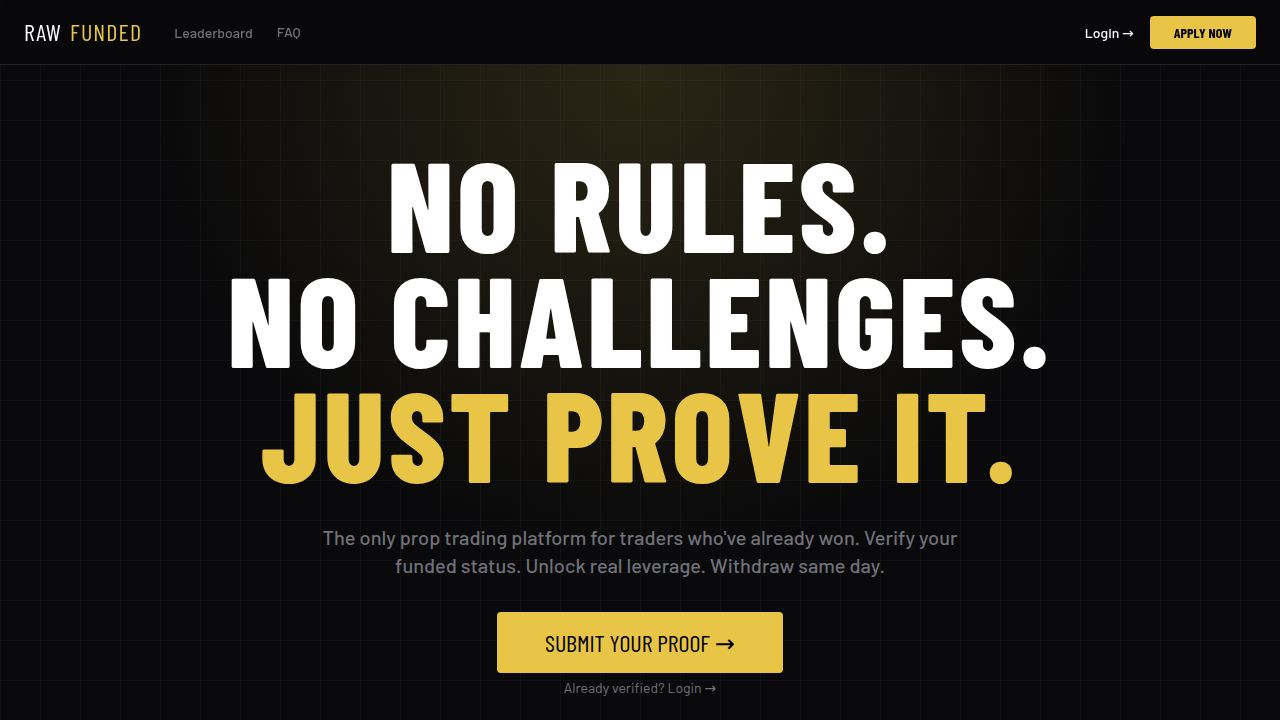
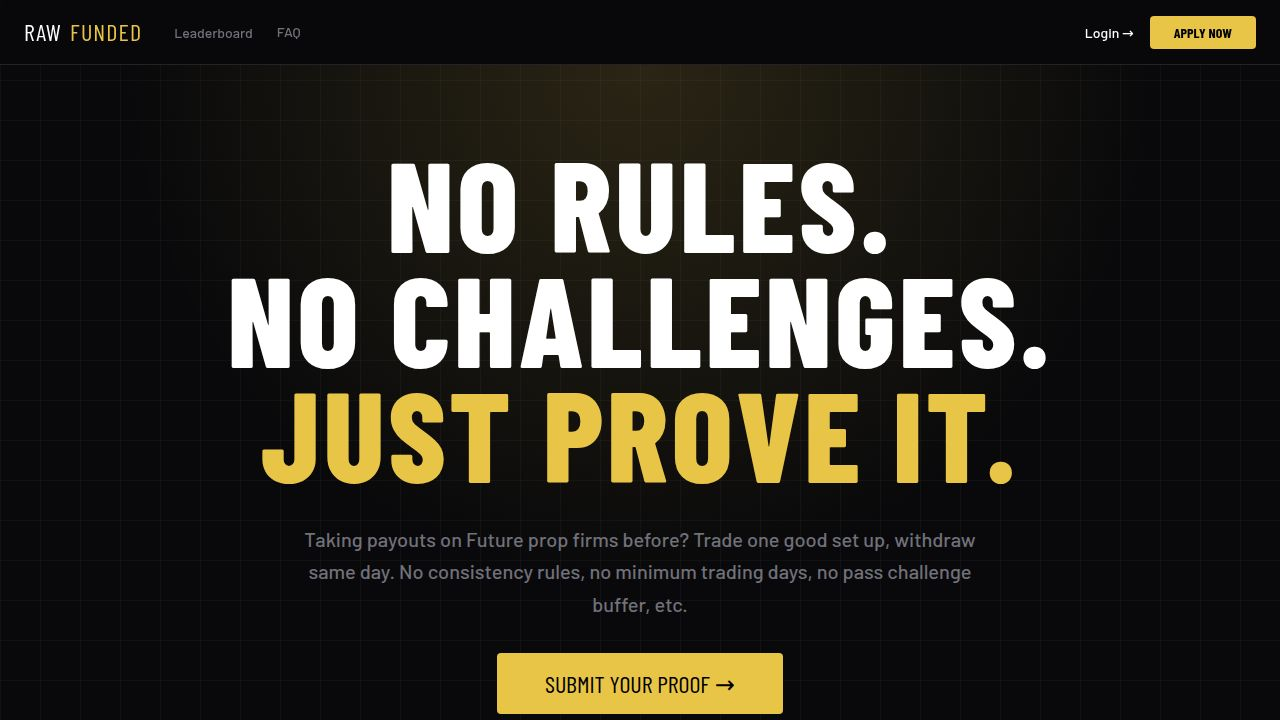
Update trading platform to use futures contracts and new verification tiers
Refactor Terminal component, constants, and apply page to use futures contracts (e.g., MNQ, MES) instead of lots, and update tier definitions and verification logic to align with new user requirements for certified traders and payout verification.

Replit-Commit-Author: Agent
Replit-Commit-Session-Id: cf411154-8153-407b-abf6-9c515cfc12b8
Replit-Commit-Checkpoint-Type: full_checkpoint
Replit-Commit-Event-Id: f8240c99-c681-4b00-b0c1-e1877290902e
Replit-Commit-Screenshot-Url: https://storage.googleapis.com/screenshot-production-us-central1/fb98165c-38b1-4d3a-b7e7-9d60fbf29060/cf411154-8153-407b-abf6-9c515cfc12b8/eQidsIg
Replit-Helium-Checkpoint-Created: true

Changed region(s): [[0.25, 0.7333, 0.7812, 1.0]]

diff --git a/client/src/pages/apply.tsx b/client/src/pages/apply.tsx
@@ -10,7 +10,7 @@ export default function Apply() {
   const [payouts, setPayouts] = useState<number>(0);
   const [isSubmitting, setIsSubmitting] = useState(false);
 
-  // Derived tier preview
+  // Derived tier preview: 0 = Verified (Certified), 1+ = Elite (Payouts)
   const previewTier = payouts === 0 ? TIERS.verified : payouts === 1 ? TIERS.elite : TIERS.titan;
 
   const handleSubmit = (e: React.FormEvent) => {
@@ -82,12 +82,11 @@ export default function Apply() {
                       <label className="block text-sm text-muted-foreground uppercase mb-2">Select Prop Firm</label>
                       <select required className="w-full bg-s2 border border-b1 p-3 text-white focus:border-gold outline-none">
                         <option value="">Select Firm...</option>
-                        <option>FTMO</option>
                         <option>TopStep</option>
-                        <option>MyForexFunds</option>
-                        <option>Funded Next</option>
-                        <option>The Funded Trader</option>
                         <option>Apex</option>
+                        <option>Earn2Trade</option>
+                        <option>TradeDay</option>
+                        <option>MyFundedFutures</option>
                         <option>Other</option>
                       </select>
                     </div>
@@ -105,37 +104,43 @@ export default function Apply() {
                           </div>
                         ))}
                       </div>
+                      <p className="text-xs text-muted-foreground mt-2">
+                        {payouts === 0 ? "You are applying for the Verified Tier (Certified)." : "You are applying for the Elite/Titan Tier (Payouts)."}
+                      </p>
                     </div>
 
                     <div>
                       <label className="block text-sm text-muted-foreground uppercase mb-2">Proof Method</label>
                       <div className="grid grid-cols-2 gap-2 mb-4">
+                        <div className="border border-b1 bg-s2 p-3 flex flex-col items-center justify-center gap-2 cursor-pointer hover:border-b2">
+                          <FileText className="w-6 h-6 text-muted-foreground" />
+                          <span className="text-[10px] uppercase font-bold text-muted-foreground text-center leading-tight">Certificate PDF</span>
+                        </div>
                         <div className="border border-gold bg-gold/5 p-3 flex flex-col items-center justify-center gap-2 cursor-pointer">
-                          <UploadCloud className="w-6 h-6 text-gold" />
-                          <span className="text-xs uppercase font-bold text-gold">Screenshot</span>
+                          <Mail className="w-6 h-6 text-gold" />
+                          <span className="text-[10px] uppercase font-bold text-gold text-center leading-tight">Wise/Stripe Email Forward</span>
+                        </div>
+                        <div className="border border-b1 bg-s2 p-3 flex flex-col items-center justify-center gap-2 cursor-pointer hover:border-b2">
+                          <UploadCloud className="w-6 h-6 text-muted-foreground" />
+                          <span className="text-[10px] uppercase font-bold text-muted-foreground text-center leading-tight">Screenshot</span>
                         </div>
                         <div className="border border-b1 bg-s2 p-3 flex flex-col items-center justify-center gap-2 cursor-pointer hover:border-b2">
                           <LinkIcon className="w-6 h-6 text-muted-foreground" />
-                          <span className="text-xs uppercase font-bold text-muted-foreground">Profile URL</span>
-                        </div>
-                        <div className="border border-b1 bg-s2 p-3 flex flex-col items-center justify-center gap-2 cursor-pointer hover:border-b2">
-                          <Mail className="w-6 h-6 text-muted-foreground" />
-                          <span className="text-xs uppercase font-bold text-muted-foreground">Email Forward</span>
-                        </div>
-                        <div className="border border-b1 bg-s2 p-3 flex flex-col items-center justify-center gap-2 cursor-pointer hover:border-b2">
-                          <FileText className="w-6 h-6 text-muted-foreground" />
-                          <span className="text-xs uppercase font-bold text-muted-foreground">Certificate</span>
+                          <span className="text-[10px] uppercase font-bold text-muted-foreground text-center leading-tight">Profile URL</span>
                         </div>
                       </div>
                       
-                      <div className="border-2 border-dashed border-b1 bg-s2 p-8 text-center cursor-pointer hover:border-gold/50 transition-colors">
-                        <div className="w-12 h-12 bg-b1 rounded-full flex items-center justify-center mx-auto mb-4">
-                          <UploadCloud className="w-6 h-6 text-muted-foreground" />
+                      <div className="bg-s2/50 border border-gold/50 p-6 text-center rounded-sm">
+                        <p className="text-sm text-white mb-3">Forward your payout confirmation email to:</p>
+                        <div className="inline-block bg-background px-4 py-2 border border-b1 rounded text-gold font-mono mb-3 select-all">
+                          compliance@rawfunded.com
                         </div>
-                        <p className="text-sm text-muted-foreground">Drag and drop your screenshot here, or click to browse.</p>
+                        <p className="text-xs text-muted-foreground">
+                          Include your Raw Funded username in the subject line.
+                        </p>
                       </div>
                     </div>
-
+                    
                     <div>
                       <label className="block text-sm text-muted-foreground uppercase mb-2">Additional Notes (Optional)</label>
                       <textarea className="w-full bg-s2 border border-b1 p-3 text-white focus:border-gold outline-none h-24 resize-none" placeholder="Anything else we should know?"></textarea>
@@ -163,8 +168,8 @@ export default function Apply() {
                       <div className="data-number text-xl">1:{previewTier.leverage}</div>
                     </div>
                     <div>
-                      <div className="text-xs text-muted-foreground uppercase">Max Lot</div>
-                      <div className="data-number text-xl">{previewTier.maxLot}</div>
+                      <div className="text-xs text-muted-foreground uppercase">Max Position Size</div>
+                      <div className="data-number text-xl">{previewTier.maxContractsText}</div>
                     </div>
                   </div>
                 </div>
@@ -176,15 +181,15 @@ export default function Apply() {
                   <ul className="space-y-3">
                     <li className="flex gap-3 items-start">
                       <Check className="w-5 h-5 text-green shrink-0" />
-                      <span className="text-sm text-muted-foreground">Dashboard screenshots showing your name and funded status clearly.</span>
+                      <span className="text-sm text-muted-foreground"><strong className="text-white">Elite (Payouts):</strong> Forwarded Wise or Stripe verification emails of past prop firm payouts.</span>
                     </li>
                     <li className="flex gap-3 items-start">
                       <Check className="w-5 h-5 text-green shrink-0" />
-                      <span className="text-sm text-muted-foreground">Payout certificates or emails from recognized prop firms.</span>
+                      <span className="text-sm text-muted-foreground"><strong className="text-white">Verified (Certified):</strong> Certificate proofs or verification PDFs showing you passed an evaluation.</span>
                     </li>
                     <li className="flex gap-3 items-start">
                       <Check className="w-5 h-5 text-green shrink-0" />
-                      <span className="text-sm text-muted-foreground">Public profile URLs (e.g., TopStep public profile).</span>
+                      <span className="text-sm text-muted-foreground">Public profile URLs (e.g., TopStep public profile) demonstrating funded status.</span>
                     </li>
                   </ul>
                 </div>

diff --git a/client/src/pages/home.tsx b/client/src/pages/home.tsx
@@ -17,8 +17,8 @@ export default function Home() {
             <span className="text-gold">JUST PROVE IT.</span>
           </h1>
           
-          <p className="text-lg md:text-xl text-muted-foreground max-w-2xl mx-auto font-medium">
-            The only prop trading platform for traders who've already won. Verify your funded status. Unlock real leverage. Withdraw same day.
+          <p className="text-lg md:text-xl text-muted-foreground max-w-2xl mx-auto font-medium leading-relaxed">
+            Taking payouts on Future prop firms before? Trade one good set up, withdraw same day. No consistency rules, no minimum trading days, no pass challenge buffer, etc.
           </p>
 
           <div className="flex flex-col items-center gap-4 pt-4">
@@ -71,19 +71,19 @@ export default function Home() {
           <div className="bg-s1 border border-b1 p-8 relative z-10 flex flex-col items-center text-center">
             <div className="w-16 h-16 bg-s2 border border-b2 flex items-center justify-center data-number text-2xl text-gold font-bold mb-6 rounded-full">1</div>
             <h3 className="text-2xl text-white mb-3">PROVE IT</h3>
-            <p className="text-muted-foreground">Submit your funded account proof from any prop firm. Takes 2 minutes.</p>
+            <p className="text-muted-foreground">Upload a Certificate PDF or forward your Wise/Stripe payout verification email.</p>
           </div>
 
           <div className="bg-s1 border border-b1 p-8 relative z-10 flex flex-col items-center text-center">
             <div className="w-16 h-16 bg-s2 border border-b2 flex items-center justify-center data-number text-2xl text-gold font-bold mb-6 rounded-full">2</div>
             <h3 className="text-2xl text-white mb-3">GET VERIFIED</h3>
-            <p className="text-muted-foreground">Our team reviews within 24 hours. Your tier unlocks automatically.</p>
+            <p className="text-muted-foreground">Our compliance team reviews within 24 hours. Your tier unlocks automatically.</p>
           </div>
 
           <div className="bg-s1 border border-b1 p-8 relative z-10 flex flex-col items-center text-center">
             <div className="w-16 h-16 bg-s2 border border-b2 flex items-center justify-center data-number text-2xl text-gold font-bold mb-6 rounded-full">3</div>
             <h3 className="text-2xl text-white mb-3">TRADE & WITHDRAW</h3>
-            <p className="text-muted-foreground">No rules, no limits, no waiting. Withdraw your profits same day.</p>
+            <p className="text-muted-foreground">Trade your edge and withdraw the same day. No restrictive consistency rules.</p>
           </div>
         </div>
       </section>
@@ -105,10 +105,10 @@ export default function Home() {
             { rule: "Daily Loss Limit", other: true, us: false },
             { rule: "Consistency Rule", other: true, us: false },
             { rule: "Min Trading Days", other: true, us: false },
+            { rule: "Pass Challenge Buffer", other: true, us: false },
             { rule: "Challenge Fee", other: "$100–$1,000", us: "$0" },
             { rule: "Withdrawal Wait", other: "14–30 days", us: "Same Day" },
             { rule: "News Trading Ban", other: true, us: false },
-            { rule: "Weekend Holding Ban", other: true, us: false },
           ].map((item, i) => (
             <div key={i} className="grid grid-cols-3 p-4 border-b border-b1 last:border-0 hover:bg-s2/50 transition-colors items-center">
               <div className="font-medium">{item.rule}</div>
@@ -135,7 +135,11 @@ export default function Home() {
             {Object.entries(TIERS).filter(([k]) => k !== 'banned').map(([key, tier]) => (
               <div key={key} className="bg-background border border-b1 p-6 relative overflow-hidden group hover:border-b2 transition-colors">
                 <div className="absolute top-0 left-0 w-full h-1" style={{ backgroundColor: tier.color }}></div>
-                <h3 className="text-2xl mb-2" style={{ color: tier.color }}>{tier.label}</h3>
+                <h3 className="text-2xl mb-1" style={{ color: tier.color }}>{tier.label}</h3>
+                
+                {key === 'verified' && <div className="text-xs text-muted-foreground mb-4">For Certified Traders</div>}
+                {key === 'elite' && <div className="text-xs text-muted-foreground mb-4">For Traders With Payouts</div>}
+                {(key === 'unverified' || key === 'titan') && <div className="text-xs text-transparent mb-4 select-none">Spacer</div>}
                 
                 <div className="my-6 space-y-4">
                   <div>
@@ -143,14 +147,15 @@ export default function Home() {
                     <div className="data-number text-2xl">1:{tier.leverage}</div>
                   </div>
                   <div>
-                    <div className="text-xs text-muted-foreground uppercase mb-1">Max Lot</div>
-                    <div className="data-number text-xl">{tier.maxLot}</div>
+                    <div className="text-xs text-muted-foreground uppercase mb-1">Max Position Size</div>
+                    <div className="data-number text-xl">{tier.maxContractsText}</div>
                   </div>
                   <div>
                     <div className="text-xs text-muted-foreground uppercase mb-1">Instruments</div>
-                    <div className="text-sm font-medium text-muted-foreground">
-                      {tier.instruments.length > 4 ? `${tier.instruments.length} Pairs (Majors + Metals)` : tier.instruments.join(', ')}
+                    <div className="text-sm font-medium text-muted-foreground leading-tight">
+                      {tier.instruments.length > 5 ? `Futures (Micros & Minis)` : `Micros Only`}
                     </div>
+                    <div className="text-[10px] text-muted-foreground mt-1">Nasdaq, S&P 500, Gold, Silver, Oil</div>
                   </div>
                 </div>
               </div>

diff --git a/client/src/components/dashboard/Terminal.tsx b/client/src/components/dashboard/Terminal.tsx
@@ -8,8 +8,8 @@ interface TerminalProps {
 
 export default function Terminal({ tier, userTierName }: TerminalProps) {
   const chartContainerRef = useRef<HTMLDivElement>(null);
-  const [instrument, setInstrument] = useState(tier.instruments[0] || 'XAUUSD_m');
-  const [lotSize, setLotSize] = useState<number>(0.01);
+  const [instrument, setInstrument] = useState(tier.instruments[0] || 'MNQ');
+  const [contracts, setContracts] = useState<number>(1);
   const [positions, setPositions] = useState<any[]>([]);
 
   useEffect(() => {
@@ -46,13 +46,13 @@ export default function Terminal({ tier, userTierName }: TerminalProps) {
       wickDownColor: '#EF4444',
     });
 
-    // Generate some realistic looking dummy data for XAUUSD around 2640
+    // Generate some realistic looking dummy data for MNQ around 21000
     const data = [];
-    let currentPrice = 2640;
+    let currentPrice = 21000;
     const now = Math.floor(Date.now() / 1000);
     
     for (let i = 200; i > 0; i--) {
-      const volatility = 2;
+      const volatility = 5;
       const open = currentPrice + (Math.random() - 0.5) * volatility;
       const close = open + (Math.random() - 0.5) * volatility;
       const high = Math.max(open, close) + Math.random() * volatility;
@@ -79,8 +79,8 @@ export default function Terminal({ tier, userTierName }: TerminalProps) {
   }, [instrument]);
 
   const handleTrade = (side: 'BUY' | 'SELL') => {
-    if (lotSize > tier.maxLot) {
-      alert(`Lot size exceeds your tier limit (${tier.maxLot}). Verify to unlock larger positions.`);
+    if (contracts > tier.maxContractsVal) {
+      alert(`Contract size exceeds your tier limit (${tier.maxContractsText}). Verify to unlock larger positions.`);
       return;
     }
 
@@ -88,9 +88,9 @@ export default function Terminal({ tier, userTierName }: TerminalProps) {
       id: Math.random().toString(36).substring(7),
       instrument,
       side,
-      size: lotSize,
-      entry: side === 'BUY' ? 2641.80 : 2641.70, // mock current price
-      current: 2641.75,
+      size: contracts,
+      entry: side === 'BUY' ? 21005.50 : 21004.50, // mock current price for MNQ
+      current: 21005.00,
       pnl: 0.00
     };
     
@@ -139,24 +139,24 @@ export default function Terminal({ tier, userTierName }: TerminalProps) {
             <div className="flex flex-col items-center gap-2">
               <div className="flex items-center bg-s2 border border-b2 rounded overflow-hidden">
                 <button 
-                  onClick={() => setLotSize(Math.max(0.01, Number((lotSize - 0.01).toFixed(2))))}
+                  onClick={() => setContracts(Math.max(1, contracts - 1))}
                   className="px-4 py-3 text-muted-foreground hover:text-white hover:bg-s3 transition-colors"
                 >-</button>
                 <input 
                   type="number" 
-                  value={lotSize}
-                  onChange={(e) => setLotSize(Number(e.target.value))}
-                  step="0.01"
-                  min="0.01"
-                  max={tier.maxLot}
+                  value={contracts}
+                  onChange={(e) => setContracts(Number(e.target.value))}
+                  step="1"
+                  min="1"
+                  max={tier.maxContractsVal}
                   className="w-20 bg-transparent text-center text-white font-mono font-bold outline-none"
                 />
                 <button 
-                  onClick={() => setLotSize(Number((lotSize + 0.01).toFixed(2)))}
+                  onClick={() => setContracts(contracts + 1)}
                   className="px-4 py-3 text-muted-foreground hover:text-white hover:bg-s3 transition-colors"
                 >+</button>
               </div>
-              <span className="text-xs text-muted-foreground">Max: {tier.maxLot} lot ({tier.label})</span>
+              <span className="text-xs text-muted-foreground">Max: {tier.maxContractsText} ({tier.label})</span>
             </div>
 
             <div className="flex-1 flex gap-4 w-full">
@@ -165,14 +165,14 @@ export default function Terminal({ tier, userTierName }: TerminalProps) {
                 className="flex-1 bg-red/10 text-red border border-red/30 hover:bg-red hover:text-white py-3 rounded transition-all font-heading text-xl flex flex-col items-center justify-center leading-none"
               >
                 <span>SELL</span>
-                <span className="text-xs font-mono font-normal opacity-80 mt-1">2641.70</span>
+                <span className="text-xs font-mono font-normal opacity-80 mt-1">21004.50</span>
               </button>
               <button 
                 onClick={() => handleTrade('BUY')}
                 className="flex-1 bg-green/10 text-green border border-green/30 hover:bg-green hover:text-white py-3 rounded transition-all font-heading text-xl flex flex-col items-center justify-center leading-none"
               >
                 <span>BUY</span>
-                <span className="text-xs font-mono font-normal opacity-80 mt-1">2641.80</span>
+                <span className="text-xs font-mono font-normal opacity-80 mt-1">21005.50</span>
               </button>
             </div>
             
@@ -237,7 +237,7 @@ export default function Terminal({ tier, userTierName }: TerminalProps) {
                   <div className="flex justify-between items-end mt-3">
                     <div className="flex gap-4">
                       <div>
-                        <div className="text-[10px] text-muted-foreground uppercase">Size</div>
+                        <div className="text-[10px] text-muted-foreground uppercase">Contracts</div>
                         <div className="data-number text-sm text-white">{pos.size}</div>
                       </div>
                       <div>

diff --git a/client/src/lib/constants.ts b/client/src/lib/constants.ts
@@ -1,42 +1,44 @@
 export const TIERS = {
   unverified: {
     leverage: 50,
-    maxLot: 0.01,
-    instruments: ['XAUUSD_m', 'XAGUSD_m', 'MNQ_m', 'MES_m'],
+    maxContractsText: "1 Micro",
+    maxContractsVal: 1,
+    instruments: ['MNQ', 'MES', 'MGC', 'SIL', 'MCL'],
     tries: 3,
     label: 'Unverified',
     color: '#71717A'
   },
   verified: {
     leverage: 250,
-    maxLot: 0.10,
-    instruments: ['XAUUSD_m', 'XAGUSD_m', 'MNQ_m', 'MES_m',
-                  'XAUUSD', 'XAGUSD', 'MNQ', 'MES'],
+    maxContractsText: "10 Micros / 1 Mini",
+    maxContractsVal: 10,
+    instruments: ['MNQ', 'MES', 'MGC', 'SIL', 'MCL', 'NQ', 'ES', 'GC', 'SI', 'CL'],
     tries: null,
     label: 'Verified',
     color: '#3B82F6'
   },
   elite: {
     leverage: 500,
-    maxLot: 0.50,
-    instruments: ['XAUUSD_m', 'XAGUSD_m', 'MNQ_m', 'MES_m',
-                  'XAUUSD', 'XAGUSD', 'MNQ', 'MES'],
+    maxContractsText: "50 Micros / 5 Minis",
+    maxContractsVal: 50,
+    instruments: ['MNQ', 'MES', 'MGC', 'SIL', 'MCL', 'NQ', 'ES', 'GC', 'SI', 'CL'],
     tries: null,
     label: 'Elite',
     color: '#E8C547'
   },
   titan: {
     leverage: 2000,
-    maxLot: 999,
-    instruments: ['XAUUSD_m', 'XAGUSD_m', 'MNQ_m', 'MES_m',
-                  'XAUUSD', 'XAGUSD', 'MNQ', 'MES', 'EURUSD', 'GBPUSD'],
+    maxContractsText: "Unlimited",
+    maxContractsVal: 999,
+    instruments: ['MNQ', 'MES', 'MGC', 'SIL', 'MCL', 'NQ', 'ES', 'GC', 'SI', 'CL'],
     tries: null,
     label: 'Titan',
     color: '#22C55E'
   },
   banned: {
     leverage: 0,
-    maxLot: 0,
+    maxContractsText: "0",
+    maxContractsVal: 0,
     instruments: [],
     label: 'Banned',
     color: '#EF4444'
@@ -44,9 +46,9 @@ export const TIERS = {
 };
 
 export const LEADERBOARD_MOCK = [
-  { rank: 1, name: "AlphaTrader", tier: "titan", pnl: 145020.50, winRate: 68, profitFactor: 2.4, avgWL: 1.8, instruments: "XAUUSD, MNQ", since: "2023" },
-  { rank: 2, name: "SniperFX", tier: "elite", pnl: 89340.00, winRate: 72, profitFactor: 2.1, avgWL: 1.5, instruments: "XAGUSD, MES", since: "2023" },
-  { rank: 3, name: "MacroKing", tier: "titan", pnl: 65100.25, winRate: 55, profitFactor: 1.9, avgWL: 2.2, instruments: "EURUSD, MNQ", since: "2024" },
-  { rank: 4, name: "ZenState", tier: "verified", pnl: 34500.00, winRate: 62, profitFactor: 1.7, avgWL: 1.4, instruments: "XAUUSD_m", since: "2024" },
-  { rank: 5, name: "PipCatcher", tier: "elite", pnl: 28900.50, winRate: 58, profitFactor: 1.6, avgWL: 1.6, instruments: "XAUUSD, GBPUSD", since: "2024" },
+  { rank: 1, name: "AlphaTrader", tier: "titan", pnl: 145020.50, winRate: 68, profitFactor: 2.4, avgWL: 1.8, instruments: "NQ, GC", since: "2023" },
+  { rank: 2, name: "SniperFX", tier: "elite", pnl: 89340.00, winRate: 72, profitFactor: 2.1, avgWL: 1.5, instruments: "ES, CL", since: "2023" },
+  { rank: 3, name: "MacroKing", tier: "titan", pnl: 65100.25, winRate: 55, profitFactor: 1.9, avgWL: 2.2, instruments: "NQ, CL", since: "2024" },
+  { rank: 4, name: "ZenState", tier: "verified", pnl: 34500.00, winRate: 62, profitFactor: 1.7, avgWL: 1.4, instruments: "MNQ, MES", since: "2024" },
+  { rank: 5, name: "PipCatcher", tier: "elite", pnl: 28900.50, winRate: 58, profitFactor: 1.6, avgWL: 1.6, instruments: "GC, SI", since: "2024" },
 ];
